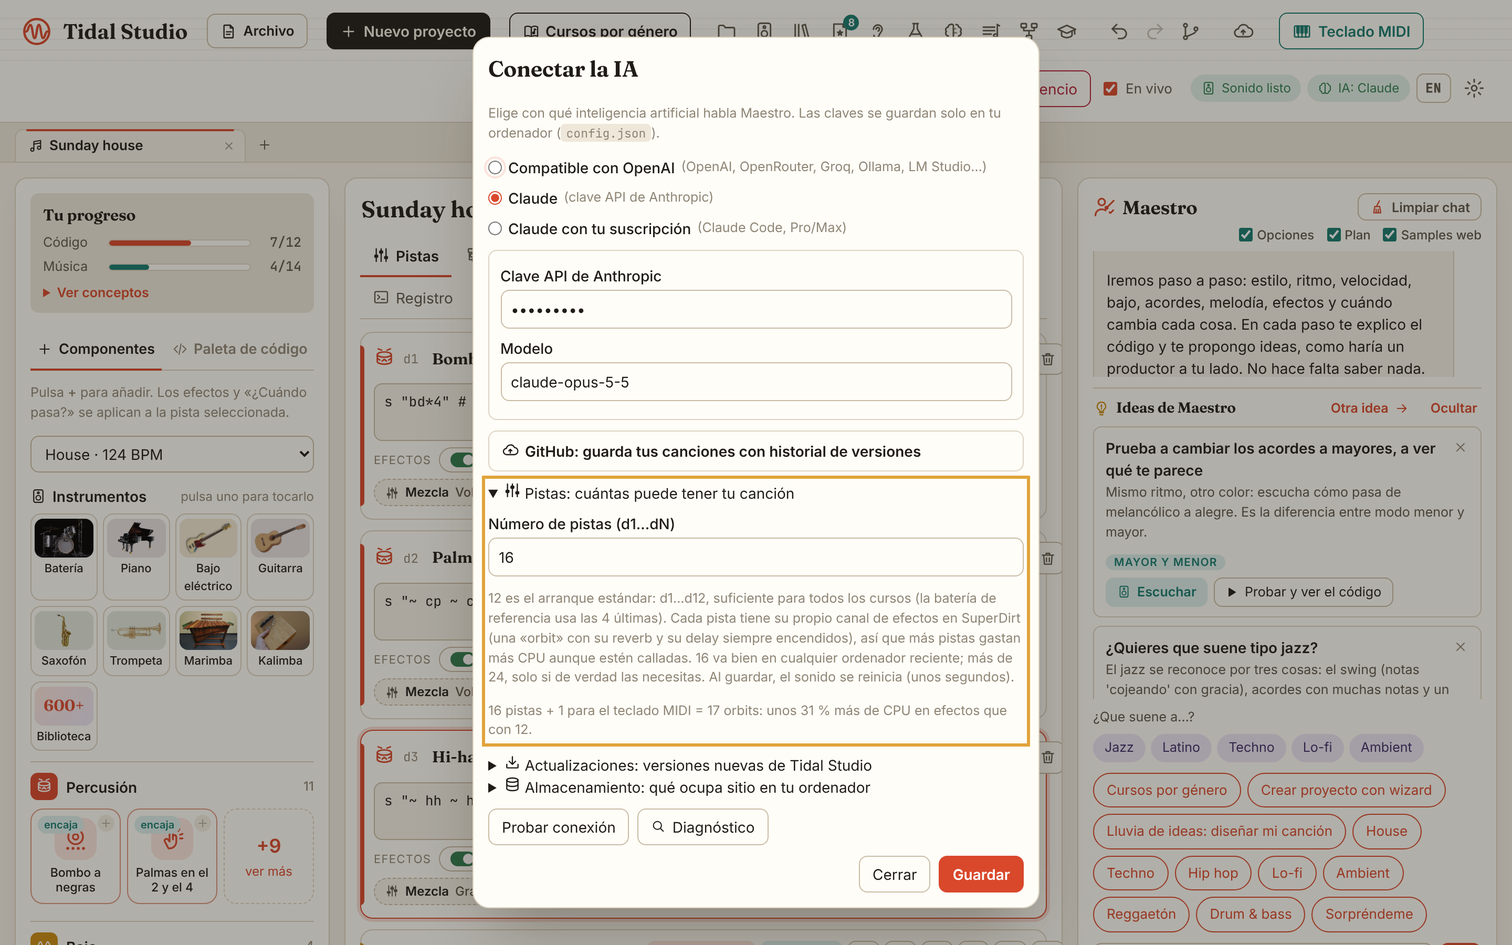
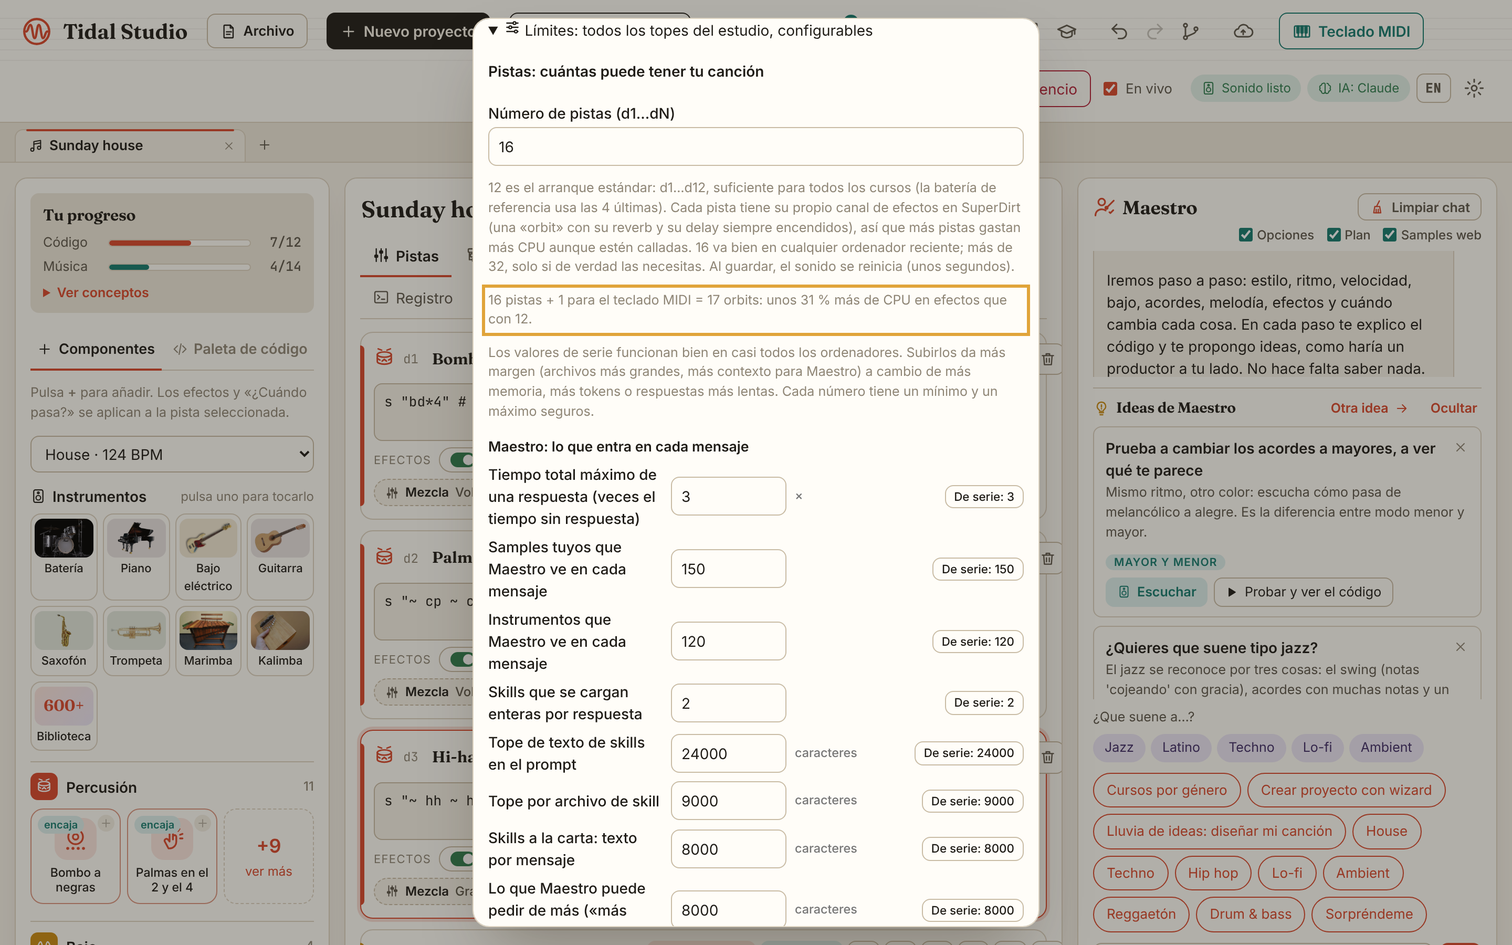
0.25.2: tracks live in Settings → Limits (12-64), limits apply on save
- The number of tracks is now the first entry of Settings → Limits (no separate
  section), range 12-64; BootTidal, SuperDirt orbits and every free-id search follow it.
- Skill reference cache keyed by MAX_FILE so a changed limit applies at once.

Claude-Session: https://claude.ai/code/session_011rzsaVjm4khQSLWQDVhxyD

Changed region(s): [[0.3125, 0.0, 0.6875, 0.9956]]

diff --git a/docs/index.html b/docs/index.html
@@ -417,7 +417,7 @@ n "&lt;c'min7 f'min7&gt;" # s "superpiano"</code></div>
     <p class="sec-lead" data-i="ln">A new version every few days, each with its installers for Mac, Windows and Linux.</p>
     <ul class="vers reveal">
       <li><b>0.25.2</b><span data-i="v252">Fixes: more than 12 tracks now work everywhere (Maestro, wizard, style recipes, shared links), and the live highlighting in the Code view stays aligned when you scroll.</span></li>
-      <li><b>0.25.1</b><span data-i="v251">How many tracks is now a setting: 12 by default, up to 32 in Settings → Tracks, with the TidalCycles boot and SuperDirt orbits generated from it and what each extra track costs in CPU. Every other limit (Maestro context, file sizes, sound, undo) is configurable too in Settings → Limits.</span></li>
+      <li><b>0.25.1</b><span data-i="v251">How many tracks is now a setting: 12 by default, up to 64 in Settings → Limits → Tracks, with the TidalCycles boot and SuperDirt orbits generated from it and what each extra track costs in CPU. Every other limit (Maestro context, file sizes, sound, undo) is configurable too in Settings → Limits.</span></li>
       <li><b>0.24.0</b><span data-i="v240">Short answers, result first: Maestro thinks and writes less by default (about 83% fewer output tokens and 3.5× faster with Sonnet 4.6), and Detailed answers are one setting away.</span></li>
       <li><b>0.23.0</b><span data-i="v230">Maestro saves its options as styles for real: ask «save the other three as styles» or press Save as a style on any option card, and the confirmation shows what was really saved.</span></li>
       <li><b>0.22.0</b><span data-i="v220">Effects, the same in every view: one chip per effect with an on/off switch and the same editor (slider, value, remove) in Tracks, Blocks and Code, + effect everywhere, and a light editor.</span></li>
@@ -537,7 +537,7 @@ const ES = {
   f16h: "Maestro consigue los sonidos", f16p: "Si a tu canción le falta un sonido que no tienes, como un cencerro de verdad o crujido de vinilo, Maestro busca uno con licencia libre en internet, lo descarga, apunta los créditos y lo hace sonar. Antes de bajar paquetes grandes te pregunta.",
   f18h: "Archivos de Tidal en pestañas", f18p: "Abre cualquier .tidal o .hs de tu disco o una canción de GitHub, cada uno en su pestaña, y ciérralos al terminar; Guardar escribe un .tidal limpio que suena en cualquier editor de Tidal.",
   v252: "Arreglos: más de 12 pistas ya funcionan en todas partes (Maestro, asistente, recetas de estilo, enlaces compartidos) y el resaltado en directo de la vista Código sigue alineado al hacer scroll.",
-  v251: "Cuántas pistas ahora es un ajuste: 12 de serie, hasta 32 en Ajustes → Pistas, con el arranque de TidalCycles y las orbits de SuperDirt generados a partir de él y lo que cuesta en CPU cada pista de más. Todos los demás límites (contexto de Maestro, tamaños de archivo, sonido, deshacer) también se configuran en Ajustes → Límites.",
+  v251: "Cuántas pistas ahora es un ajuste: 12 de serie, hasta 64 en Ajustes → Límites → Pistas, con el arranque de TidalCycles y las orbits de SuperDirt generados a partir de él y lo que cuesta en CPU cada pista de más. Todos los demás límites (contexto de Maestro, tamaños de archivo, sonido, deshacer) también se configuran en Ajustes → Límites.",
   v240: "Respuestas cortas, primero el resultado: Maestro piensa y escribe menos por defecto (unos 83% menos tokens de salida y 3,5 veces más rápido con Sonnet 4.6), y las respuestas Detalladas están a un ajuste.",
   v230: "Maestro guarda sus opciones como estilos de verdad: pide «guárdame las otras tres como estilos» o pulsa Guardar como estilo en cualquier tarjeta de opción, y la confirmación enseña lo que se guardó de verdad.",
   v220: "Efectos, iguales en todas las vistas: una ficha por efecto con interruptor y el mismo editor (deslizador, valor, quitar) en Pistas, Bloques y Código, + efecto en todas, y un editor claro.",

diff --git a/web/index.html b/web/index.html
@@ -403,15 +403,13 @@
           <span class="hint" data-t="Several .tidal files at once, with the option to delete the local copies.">Varios .tidal a la vez, con la opción de eliminar las copias locales.</span>
         </div>
       </details>
-      <details id="tracks-section">
-        <summary><i data-icon="tracks" data-size="16"></i> <span data-t="Tracks: how many your songs can have">Pistas: cuántas puede tener tu canción</span></summary>
-        <label><span data-t="Number of tracks (d1…dN)">Número de pistas (d1…dN)</span>
-          <input type="number" id="tracks-count" min="12" max="32" step="1" value="12"></label>
-        <p class="hint" data-t="12 is the standard start: d1…d12, enough for every course (the reference drummer uses the last 4). Each track gets its own effects channel in SuperDirt (an «orbit» with its reverb and delay always on), so more tracks use more CPU even when they are silent. 16 is fine on any recent computer; above 24, only if you really need them. Saving restarts the sound (a few seconds).">12 es el arranque estándar: d1…d12, suficiente para todos los cursos (la batería de referencia usa las 4 últimas). Cada pista tiene su propio canal de efectos en SuperDirt (una «orbit» con su reverb y su delay siempre encendidos), así que más pistas gastan más CPU aunque estén calladas. 16 va bien en cualquier ordenador reciente; más de 24, solo si de verdad las necesitas. Al guardar, el sonido se reinicia (unos segundos).</p>
-        <p class="hint" id="tracks-cpu"></p>
-      </details>
       <details id="limits-section">
         <summary><i data-icon="sliders" data-size="16"></i> <span data-t="Limits: every cap of the studio, configurable">Límites: todos los topes del estudio, configurables</span></summary>
+        <h4 class="lm-group" data-t="Tracks: how many your songs can have">Pistas: cuántas puede tener tu canción</h4>
+        <label><span data-t="Number of tracks (d1…dN)">Número de pistas (d1…dN)</span>
+          <input type="number" id="tracks-count" min="12" max="64" step="1" value="12"></label>
+        <p class="hint" data-t="12 is the standard start: d1…d12, enough for every course (the reference drummer uses the last 4). Each track gets its own effects channel in SuperDirt (an «orbit» with its reverb and delay always on), so more tracks use more CPU even when they are silent. 16 is fine on any recent computer; above 32, only if you really need them. Saving restarts the sound (a few seconds).">12 es el arranque estándar: d1…d12, suficiente para todos los cursos (la batería de referencia usa las 4 últimas). Cada pista tiene su propio canal de efectos en SuperDirt (una «orbit» con su reverb y su delay siempre encendidos), así que más pistas gastan más CPU aunque estén calladas. 16 va bien en cualquier ordenador reciente; más de 32, solo si de verdad las necesitas. Al guardar, el sonido se reinicia (unos segundos).</p>
+        <p class="hint" id="tracks-cpu"></p>
         <div id="limits-settings"></div>
       </details>
       <details id="upd-section">

diff --git a/docs/screenshot-tool/v0251.js b/docs/screenshot-tool/v0251.js
@@ -1,4 +1,4 @@
-// Capturas de 0.25.1: Ajustes → Pistas (16 y lo que cuesta en CPU) y Ajustes → Límites (todos los topes).
+// Capturas de 0.25.1: Ajustes → Límites → Pistas (16 y lo que cuesta en CPU) y Ajustes → Límites (todos los topes).
 //   OUT=../screenshots LANGS=en,es node v0251.js
 const { chromium, open, shot, sunday, T } = require('./lib');
 
@@ -9,10 +9,10 @@ const scenes = {
     await page.waitForSelector('#settings[open]'); await page.waitForTimeout(400);
     await page.evaluate(() => {
       document.querySelectorAll('#settings details').forEach((d) => { d.open = false; });
-      const d = document.querySelector('#tracks-section'); d.open = true;
+      const d = document.querySelector('#limits-section'); d.open = true;
       const i = document.querySelector('#tracks-count'); i.value = 16; i.dispatchEvent(new Event('input'));
-      d.scrollIntoView({ block: 'center' });
-      d.style.outline = '3px solid #e0a43a'; d.style.outlineOffset = '3px';
+      d.querySelector('summary').scrollIntoView({ block: 'start' });
+      const cpu = document.querySelector('#tracks-cpu'); cpu.style.outline = '3px solid #e0a43a'; cpu.style.outlineOffset = '3px';
     });
     await page.waitForTimeout(300);
     await shot(page, T(lang, 'numero-de-pistas', 'tracks-setting'), lang);

diff --git a/web/app.js b/web/app.js
@@ -280,7 +280,7 @@ function selectedTrack() {
 }
 function addTrack(name, kind, code) {
   const id = freeId();
-  if (!id) { toast(L(`Máximo ${maxTracks()} pistas. Borra alguna o sube el número en Ajustes → Pistas.`, `Maximum ${maxTracks()} tracks. Delete one or raise the number in Settings → Tracks.`)); return null; }
+  if (!id) { toast(L(`Máximo ${maxTracks()} pistas. Borra alguna o sube el número en Ajustes → Límites.`, `Maximum ${maxTracks()} tracks. Delete one or raise the number in Settings → Limits.`)); return null; }
   const t = { id, name, kind, code, muted: false };
   state.tracks.push(t);
   state.selected = id;
@@ -3739,7 +3739,7 @@ function toggleProvider() {
   const p = document.querySelector("input[name=provider]:checked").value;
   $("#fs-openai").hidden = p !== "openai"; $("#fs-anthropic").hidden = p !== "anthropic"; $("#fs-claudecode").hidden = p !== "claudecode";
 }
-// Ajustes → Pistas: lo que cuesta cada número, en una frase
+// Ajustes → Límites: lo que cuesta cada número, en una frase
 function tracksCpuHint() {
   const n = Math.max(TRACKS_MIN, Math.min(TRACKS_MAX, Math.round(+$("#tracks-count").value || 12)));
   const extra = Math.round((n + 1) / 13 * 100) - 100;

diff --git a/web/importsong.js b/web/importsong.js
@@ -246,7 +246,7 @@ function resultView() {
     </div>
     <h3>${L("Pistas de Tidal", "Tidal tracks")} <span class="hint">${L("· quita las que no quieras", "· untick the ones you don't want")}</span></h3>
     <div class="imp-tracks">${tracks.map((t, i) => `<label class="imp-track k-${esc(t.tipo)}"><input type="checkbox" data-i="${i}" ${cur.off.has(i) ? "" : "checked"}>${icon(KIND_ICON[t.tipo] || "textura", 16)}<b>${esc(t.nombre)}</b><code>${esc(t.codigo)}</code></label>`).join("")}</div>
-    ${s.dropped && s.dropped.length ? `<p class="hint">${L(`No caben más de ${maxTracks()} pistas (Ajustes → Pistas); he dejado fuera: `, `Only ${maxTracks()} tracks fit (Settings → Tracks); I left out: `)}${esc(s.dropped.join(", "))}</p>` : ""}
+    ${s.dropped && s.dropped.length ? `<p class="hint">${L(`No caben más de ${maxTracks()} pistas (Ajustes → Límites); he dejado fuera: `, `Only ${maxTracks()} tracks fit (Settings → Limits); I left out: `)}${esc(s.dropped.join(", "))}</p>` : ""}
     <div class="wz-nav">
       <button data-a="back">${icon("back", 16)} ${L("Otro archivo", "Another file")}</button>
       <div class="right">

diff --git a/web/tracklimit.js b/web/tracklimit.js
@@ -1,6 +1,6 @@
-// Cuántas pistas (d1…dN) tiene el estudio (0.25.1). Lo dice el servidor en /api/status (Ajustes → Pistas);
+// Cuántas pistas (d1…dN) tiene el estudio (0.25.1). Lo dice el servidor en /api/status (Ajustes → Límites → Pistas);
 // 12 hasta que conteste. Ver server/tracklimit.py: cada pista es una orbit de SuperDirt (más pistas, más CPU).
-export const TRACKS_MIN = 12, TRACKS_MAX = 32;
+export const TRACKS_MIN = 12, TRACKS_MAX = 64;
 let max = 12;
 export const maxTracks = () => max;
 export function setMaxTracks(n) {

diff --git a/server/tracklimit.py b/server/tracklimit.py
@@ -3,20 +3,20 @@
 Cada pista suena en su propia «orbit» de SuperDirt, y cada orbit tiene sus propios efectos globales
 (reverb, delay…) encendidos todo el rato. Más pistas = más CPU aunque estén calladas. Por eso:
   - 12 por defecto (lo que esperan los cursos: d1..d8 + la batería de referencia en las 4 últimas);
-  - 12 como mínimo y 32 como máximo;
+  - 12 como mínimo y 64 como máximo (Ajustes → Límites → Pistas);
   - el BootTidal.hs (d1..dN) y las orbits de SuperDirt (N + 1: la última es la del teclado MIDI) se generan
     a partir de este número cada vez que arranca el motor.
 """
 import os
 import re
 
-MIN, MAX, DEFAULT = 12, 32, 12
+MIN, MAX, DEFAULT = 12, 64, 12
 
 _D_LINE = re.compile(r"^    d\d+ = p \d+ \. \(\|< orbit \d+\)\n", re.M)
 
 
 def valid_id(tid):
-    """¿Es un id de pista posible (d1..d32)? Cuántas caben de verdad lo decide el estudio con su ajuste."""
+    """¿Es un id de pista posible (d1..d64)? Cuántas caben de verdad lo decide el estudio con su ajuste."""
     m = re.fullmatch(r"d([1-9]\d?)", str(tid or "").strip())
     return bool(m) and int(m.group(1)) <= MAX
 

diff --git a/tests/test_tracklimit.py b/tests/test_tracklimit.py
@@ -20,7 +20,7 @@ class TrackLimit(unittest.TestCase):
 
     def test_clamp(self):
         self.assertEqual(tracklimit.clamp(4), 12)
-        self.assertEqual(tracklimit.clamp(99), 32)
+        self.assertEqual(tracklimit.clamp(99), 64)
         self.assertEqual(tracklimit.clamp("16"), 16)
         self.assertEqual(tracklimit.clamp("x"), 12)
         self.assertEqual(tracklimit.count({"tracks": {"count": 20}}), 20)
@@ -37,8 +37,8 @@ class TrackLimit(unittest.TestCase):
 
     def test_valid_ids_go_past_12(self):
         self.assertTrue(tracklimit.valid_id("d20"))
-        self.assertTrue(tracklimit.valid_id("d32"))
-        self.assertFalse(tracklimit.valid_id("d33"))
+        self.assertTrue(tracklimit.valid_id("d64"))
+        self.assertFalse(tracklimit.valid_id("d65"))
         self.assertFalse(tracklimit.valid_id("d0"))
         self.assertFalse(tracklimit.valid_id("x1"))
 

diff --git a/server/skills.py b/server/skills.py
@@ -444,7 +444,7 @@ _REF_CACHE = {}
 def _ref_text(path):
     """Texto (en minúsculas) de un archivo de referencia, con caché por fecha de modificación."""
     try:
-        key = (path, os.path.getmtime(path))
+        key = (path, os.path.getmtime(path), MAX_FILE)  # MAX_FILE cambia al guardar Ajustes → Límites
     except OSError:
         return ""
     if key not in _REF_CACHE:

diff --git a/README.es.md b/README.es.md
@@ -789,17 +789,17 @@ dentro de la copia del programa, sin pisar nada.
 |---|---|
 | ![Copias y restaurar en el panel de almacenamiento](docs/screenshots/es/datos-a-salvo.png) | ![Canciones recuperadas de la carpeta de datos](docs/screenshots/es/canciones-recuperadas.png) |
 
-### Cuántas pistas: 12 de serie, hasta 32
+### Cuántas pistas: 12 de serie, hasta 64
 
 Una canción arranca con **12 pistas**, de `d1` a `d12`: el arranque estándar, suficiente para todos los cursos (la
-batería de referencia usa las cuatro últimas). Desde la 0.25.1 el número es un ajuste: **Ajustes → Pistas**, de 12 a 32.
+batería de referencia usa las cuatro últimas). Desde la 0.25.1 el número es un ajuste: **Ajustes → Límites → Pistas**, de 12 a 64.
 El estudio escribe entonces su arranque de TidalCycles con `d1`…`dN` y arranca SuperDirt con un canal de efectos
 («orbit») por pista, más uno para el teclado MIDI. Cada orbit tiene su reverb y su delay siempre encendidos, así que
-más pistas gastan más CPU aunque estén calladas: 16 va bien en cualquier ordenador reciente, más de 24 solo si de verdad
+más pistas gastan más CPU aunque estén calladas: 16 va bien en cualquier ordenador reciente, más de 32 solo si de verdad
 las necesitas. Al guardar, el sonido se reinicia unos segundos; Maestro, la importación de MIDI y los archivos `.tidal`
 siguen el número nuevo.
 
-| Ajustes → Pistas |
+| Ajustes → Límites → Pistas |
 |---|
 | ![El número de pistas en Ajustes, con lo que cuesta en CPU](docs/screenshots/es/numero-de-pistas.png) |
 
@@ -1200,8 +1200,8 @@ Cada versión tiene sus instaladores para Mac, Windows y Linux en la [página de
 
 | Versión | Novedades |
 |---|---|
-| **0.25.2** | Arreglos: con más de 12 pistas en Ajustes → Pistas, Maestro, el asistente, las recetas de estilo y los enlaces compartidos ya también las usan (se quedaban en d12), y el resaltado en directo de la vista Código sigue alineado con el código al hacer scroll (también en la app de Mac). |
-| **0.25.1** | [Cuántas pistas](#cuántas-pistas-12-de-serie-hasta-32): el número de pistas es un ajuste (Ajustes → Pistas, 12 de serie, hasta 32); el arranque de TidalCycles y las orbits de SuperDirt se generan a partir de él, con lo que cuesta en CPU cada pista de más. [Todos los límites, configurables](#todos-los-límites-configurables): los otros 30 topes (contexto de Maestro, tamaños de archivo, sonido, canciones, deshacer) en Ajustes → Límites, con su valor de serie y restablecer. |
+| **0.25.2** | Arreglos: con más de 12 pistas en Ajustes → Límites → Pistas, Maestro, el asistente, las recetas de estilo y los enlaces compartidos ya también las usan (se quedaban en d12), y el resaltado en directo de la vista Código sigue alineado con el código al hacer scroll (también en la app de Mac). |
+| **0.25.1** | [Cuántas pistas](#cuántas-pistas-12-de-serie-hasta-32): el número de pistas es un ajuste (Ajustes → Límites → Pistas, 12 de serie, hasta 64); el arranque de TidalCycles y las orbits de SuperDirt se generan a partir de él, con lo que cuesta en CPU cada pista de más. [Todos los límites, configurables](#todos-los-límites-configurables): los otros 30 topes (contexto de Maestro, tamaños de archivo, sonido, canciones, deshacer) en Ajustes → Límites, con su valor de serie y restablecer. |
 | **0.25.0** | [Tus datos, a salvo en cada actualización](#tus-datos-a-salvo-en-cada-actualización): tus canciones, memoria y ajustes viven en su propia carpeta fuera del programa, una copia comprobada antes de cada actualización con **Restaurar** en Ajustes → Almacenamiento, y cada canción también en archivo para recuperar «Mis proyectos» si la ventana los pierde. |
 | **0.24.0** | [Respuestas cortas, primero el resultado](#respuestas-cortas-primero-el-resultado): Maestro piensa y escribe menos por defecto (unos 83% menos tokens de salida y 3,5 veces más rápido con Sonnet 4.6), la suscripción de Claude se lanza con esfuerzo al pensar bajo, y las respuestas **Detalladas** están a un ajuste. |
 | **0.23.0** | [Guarda opciones de Maestro como estilos, de verdad](#maestro-te-recuerda-memoria-tus-estilos-y-casos-musicales): pide «guárdame las otras tres como estilos», «la A y la C» o «todas» y se guardan (al momento y sin IA si se entiende cuáles), o pulsa **Guardar como estilo** en cualquier tarjeta de opción; la confirmación la escribe la app con lo que se guardó de verdad, así que Maestro ya no puede decir «guardado» si no se guardó nada. |

diff --git a/README.md b/README.md
@@ -763,16 +763,16 @@ older versions kept inside the program copy, without overwriting anything.
 |---|---|
 | ![Backups and restore in the storage panel](docs/screenshots/data-safe.png) | ![Songs recovered from the data folder](docs/screenshots/songs-recovered.png) |
 
-### How many tracks: 12 by default, up to 32
+### How many tracks: 12 by default, up to 64
 
 A song starts with **12 tracks**, `d1` to `d12`: the standard start, enough for every course (the reference drummer
-uses the last four). Since 0.25.1 the number is a setting: **Settings → Tracks**, from 12 to 32. The studio then writes
+uses the last four). Since 0.25.1 the number is a setting: **Settings → Limits → Tracks**, from 12 to 64. The studio then writes
 its TidalCycles boot file with `d1`…`dN` and starts SuperDirt with one effects channel («orbit») per track, plus one for
 the MIDI keyboard. Each orbit keeps its own reverb and delay running, so more tracks use more CPU even when they are
-silent: 16 is fine on any recent computer, above 24 only if you really need them. Saving restarts the sound for a few
+silent: 16 is fine on any recent computer, above 32 only if you really need them. Saving restarts the sound for a few
 seconds; Maestro, MIDI import and `.tidal` files follow the new number.
 
-| Settings → Tracks |
+| Settings → Limits → Tracks |
 |---|
 | ![The number of tracks in Settings, with what it costs in CPU](docs/screenshots/tracks-setting.png) |
 
@@ -1161,8 +1161,8 @@ Each version has its installers for Mac, Windows and Linux on the [releases page
 
 | Version | What's new |
 |---|---|
-| **0.25.2** | Fixes: with more than 12 tracks set in Settings → Tracks, Maestro, the wizard, style recipes and shared links can now use them too (they were still stopping at d12), and the live highlighting in the Code view stays aligned with the code when you scroll (also in the Mac app). |
-| **0.25.1** | [How many tracks](#how-many-tracks-12-by-default-up-to-32): the number of tracks is a setting (Settings → Tracks, 12 by default, up to 32); the TidalCycles boot file and the SuperDirt orbits are generated from it, with what each extra track costs in CPU. [Every limit, configurable](#every-limit-configurable): the other 30 caps (Maestro context, file sizes, sound, songs, undo) in Settings → Limits, with their defaults and reset. |
+| **0.25.2** | Fixes: with more than 12 tracks set in Settings → Limits → Tracks, Maestro, the wizard, style recipes and shared links can now use them too (they were still stopping at d12), and the live highlighting in the Code view stays aligned with the code when you scroll (also in the Mac app). |
+| **0.25.1** | [How many tracks](#how-many-tracks-12-by-default-up-to-32): the number of tracks is a setting (Settings → Limits → Tracks, 12 by default, up to 64); the TidalCycles boot file and the SuperDirt orbits are generated from it, with what each extra track costs in CPU. [Every limit, configurable](#every-limit-configurable): the other 30 caps (Maestro context, file sizes, sound, songs, undo) in Settings → Limits, with their defaults and reset. |
 | **0.25.0** | [Your data, safe across updates](#your-data-safe-across-updates): your songs, memory and settings live in their own folder outside the program, a verified backup before every update with **Restore** in Settings → Storage, and every song also saved as files that bring «My projects» back if the window loses them. |
 | **0.24.0** | [Short answers, result first](#short-answers-the-result-first): Maestro thinks and writes less by default (about 83% fewer output tokens and 3.5× faster with Sonnet 4.6), the Claude subscription runs with thinking effort low, and **Detailed** answers are one setting away. |
 | **0.23.0** | [Save Maestro's options as styles, for real](#maestro-remembers-you-memory-your-styles-and-musical-cases): ask «save the other three as styles», «A and C» or «all» and they are saved (right away and without AI when it's clear which), or press **Save as a style** on any option card; the confirmation is written by the app with what was really saved, so Maestro can no longer say «saved» when nothing was. |

diff --git a/docs/screenshot-tool/README.md b/docs/screenshot-tool/README.md
@@ -30,7 +30,7 @@ OUT=../screenshots node scenes.js studio mixer     # just some scenes
 - `tabs.js` checks the tabs (open from disk, switch, close with unsaved changes, reload) and takes `tabs*.png`: put two `.tidal` files in `$SONGS`, then `OUT=../screenshots node tabs.js` (`L=es` for Spanish, then rename to `pestanas*.png`).
 - `v0201.js` takes the «save options as styles» shots (`styles-*.png`, `es/estilos-*.png`): one studio at a time with an empty `TIDAL_STUDIO_DATA`, no LLM needed (the save is answered locally).
 - `v024.js` takes the answer-length setting (`short-answers.png`, `es/respuestas-cortas.png`): Sound Lab → Learning, no LLM needed.
-- `v0251.js` takes Settings → Tracks and Settings → Limits (`tracks-setting.png`, `limits-setting.png`, `es/numero-de-pistas.png`, `es/limites.png`), no LLM needed.
+- `v0251.js` takes Settings → Limits → Tracks and Settings → Limits (`tracks-setting.png`, `limits-setting.png`, `es/numero-de-pistas.png`, `es/limites.png`), no LLM needed.
 - `v025.js` takes «your data, safe» (`data-safe.png`, `songs-recovered.png` and the Spanish `datos-a-salvo.png`, `canciones-recuperadas.png`): start the studio with `TIDAL_STUDIO_USERDATA` pointing to a folder with a couple of backups and songs in `songs/`.
 - `v014.js` takes the 0.14 shots (locks, blind A/B, Listening, RAG monitor): it needs an OpenAI-compatible test LLM that answers with fixed options for d1..d4 (`LANGS=es` for Spanish).
 - `ghimport.js` takes `github-*.png` (remote path, Settings, importer, create new songs on GitHub): start `fake-github.py 8799`, set `github.api_url` to `http://127.0.0.1:8799` in `config.json`, save a song called `night-drive` and put a few `.tidal` files in `$SONGS` (`L=es` for Spanish).
